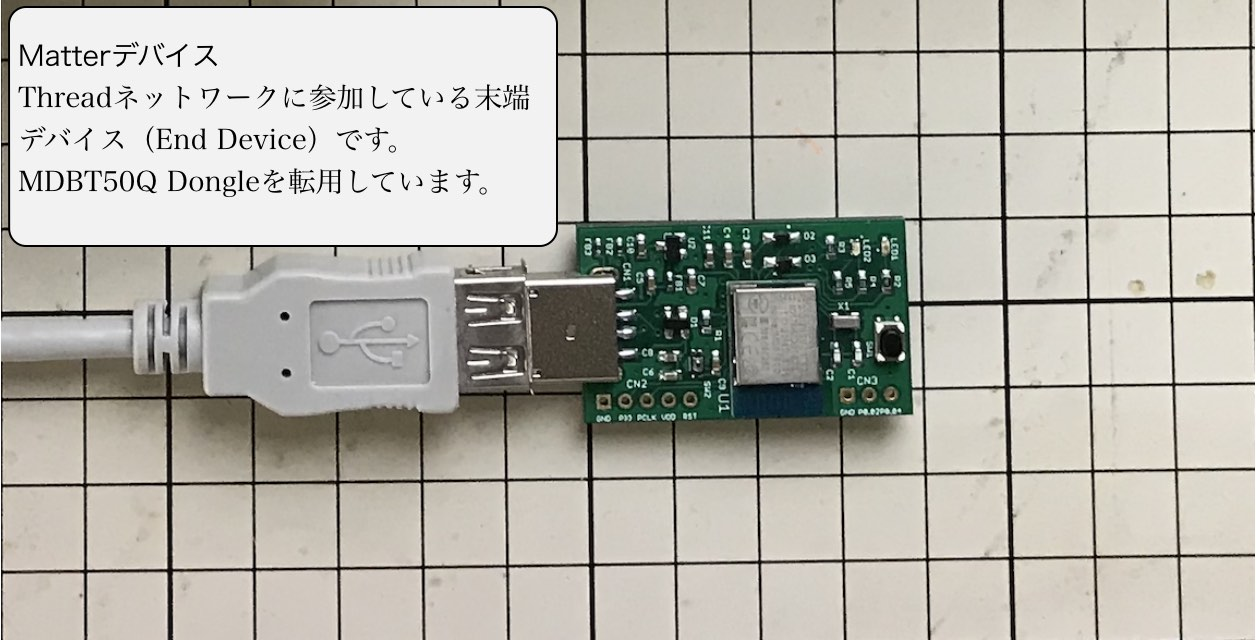
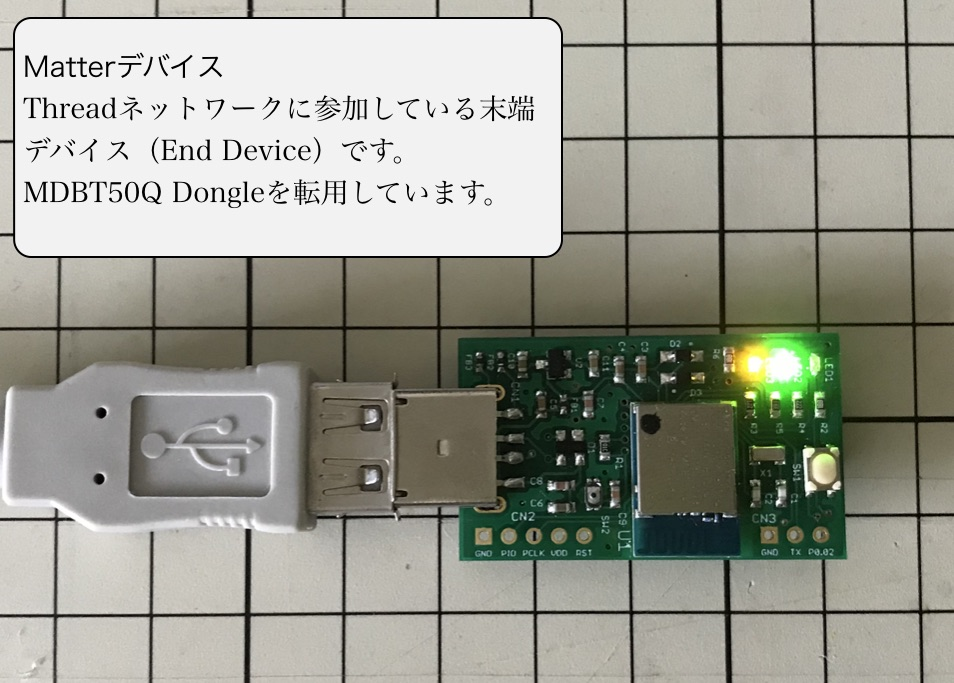
ドキュメントを作成
・ファームウェア導入手順書を追加

diff --git a/MatterPoCKit/INSTALLFW.md b/MatterPoCKit/INSTALLFW.md
@@ -1,0 +1,268 @@
+# Matterデバイスアプリ導入手順
+
+## 概要
+Matterデバイスアプリ（ファームウェア）をnRF52840環境にインストールする手順について掲載しています。
+
+以下の順番で作業を進めます。
+- ファームウェアのビルド
+- ファームウェアの書込み
+- 動作確認
+
+#### 使用した機材
+
+- macOSが導入されたPC<br>
+OSのバージョンは10.15.5（Catalina）です。
+
+- [MDBT50Q Dongle（rev2）](../FIDO2Device/MDBT50Q_Dongle/pcb_rev2/README.md)<br>
+nRF52840を搭載した基板です。<br>
+本件検証のために転用しています。
+
+- [nRF52840 DK](https://www.nordicsemi.com/Products/Development-hardware/nrf52840-dk)<br>
+ファームウェアを書き込むために使用します。<br>
+（国内技適が無いため、動作確認環境としては利用できません）
+
+## ファームウェアのビルド
+
+ファームウェアのソースコードをビルドし、ファームウェアを生成します。<br>
+
+#### nRF Connect SDK環境の作成
+
+ビルド実行のために必要となるツール「[nRF Connect SDK](https://www.nordicsemi.com/Products/Development-software/nrf-connect-sdk)」を、macOS環境にインストールします。 <br>
+
+詳細につきましては、以下の手順書をご参照願います。
+
+- <b>[ARM GCCインストール手順](../nRF52840_app/ARMGCCINST.md)</b>
+
+- <b>[NetBeansインストール手順](../nRF52840_app/NETBEANSINST.md)</b>
+
+- <b>[nRF Connect SDKインストール手順書](../nRF5340_app/INSTALLSDK.md)</b>
+
+#### ビルドを実行
+
+まずは、ソースコードをGitHubリポジトリーからチェックアウトします。<br>
+（以下本ドキュメントでは、`${HOME}/GitHub/onecard-fido/`にチェックアウトされたと想定しています）
+
+次に、ファームウェアのソースコードディレクトリー`onecard-fido/MatterPoCKit/nrfconnect/`に移動し、ビルド用シェルを実行します。
+
+```
+cd ${HOME}/GitHub/onecard-fido/MatterPoCKit/nrfconnect/
+./westbuild.sh
+```
+
+以下は実行例になります。
+
+```
+bash-3.2$ cd ${HOME}/GitHub/onecard-fido/MatterPoCKit/nrfconnect/
+bash-3.2$ ./westbuild.sh
+-- west build: generating a build system
+Including boilerplate (Zephyr base): /Users/makmorit/GitHub/onecard-fido/pyvenvs/ncs/zephyr/cmake/app/boilerplate.cmake
+-- Application: /Users/makmorit/GitHub/onecard-fido/MatterPoCKit/nrfconnect
+-- Zephyr version: 2.6.0-rc1 (/Users/makmorit/GitHub/onecard-fido/pyvenvs/ncs/zephyr), build: v2.6.0-rc1-ncs1-3-g0944459b5b62
+-- Found Python3: /Users/makmorit/GitHub/onecard-fido/pyvenvs/ncs/bin/python3 (found suitable exact version "3.7.3") found components: Interpreter
+-- Found west (found suitable version "0.10.1", minimum required is "0.7.1")
+-- Board: nrf52840dk_nrf52840
+-- Cache files will be written to: /Users/makmorit/Library/Caches/zephyr
+-- Found toolchain: gnuarmemb (/Users/makmorit/opt/gcc-arm-none-eabi-9-2020-q2-update)
+-- Found BOARD.dts: /Users/makmorit/GitHub/onecard-fido/pyvenvs/ncs/zephyr/boards/arm/nrf52840dk_nrf52840/nrf52840dk_nrf52840.dts
+-- Found devicetree overlay: configuration/nrf52840dk_nrf52840/MDBT50Q_dongle_rev2.overlay
+-- Generated zephyr.dts: /Users/makmorit/GitHub/onecard-fido/MatterPoCKit/nrfconnect/build/zephyr/zephyr.dts
+：
+-- Generating done
+-- Build files have been written to: /Users/makmorit/GitHub/onecard-fido/MatterPoCKit/nrfconnect/build
+-- west build: building application
+[0/655] cd /Users/makmorit/GitHub/connectedhomeip && /User...tup/nrfconnect/update_ncs.py --check --quiet || ( exit 0 )
+[1/655] Preparing syscall dependency handling
+
+[56/655] cd /Users/makmorit/GitHub/onecard-fido/MatterPoCK...o/pyvenvs/ncs/modules/lib/openthread/etc/cmake/print.cmake
+OPENTHREAD_CONFIG_ASSERT_ENABLE=1
+OPENTHREAD_CONFIG_BACKBONE_ROUTER_DUA_NDPROXYING_ENABLE=0
+OPENTHREAD_CONFIG_BACKBONE_ROUTER_MULTICAST_ROUTING_ENABLE=0
+OPENTHREAD_CONFIG_ENABLE_BUILTIN_MBEDTLS=0
+OPENTHREAD_CONFIG_ENABLE_BUILTIN_MBEDTLS_MANAGEMENT=0
+OPENTHREAD_CONFIG_DHCP6_CLIENT_ENABLE=1
+OPENTHREAD_CONFIG_DNS_CLIENT_ENABLE=1
+OPENTHREAD_CONFIG_ECDSA_ENABLE=1
+OPENTHREAD_CONFIG_SRP_CLIENT_ENABLE=1
+OPENTHREAD_CONFIG_DUA_ENABLE=1
+OPENTHREAD_CONFIG_MLR_ENABLE=1
+OPENTHREAD_CONFIG_TMF_NETWORK_DIAG_MTD_ENABLE=1
+OPENTHREAD_CONFIG_TMF_NETDATA_SERVICE_ENABLE=1
+OPENTHREAD_CONFIG_IP6_SLAAC_ENABLE=1
+OPENTHREAD_CONFIG_SNTP_CLIENT_ENABLE=1
+OPENTHREAD_SPINEL_CONFIG_RCP_RESTORATION_MAX_COUNT=0
+PACKAGE_NAME=OPENTHREAD
+PACKAGE_VERSION=eae63bb47
+OPENTHREAD_CONFIG_THREAD_VERSION=OT_THREAD_VERSION_1_2
+OPENTHREAD_CONFIG_NCP_HDLC_ENABLE=1
+KERNEL
+__ZEPHYR__=1
+_FORTIFY_SOURCE=2
+BUILD_VERSION=v2.6.0-rc1-ncs1-3-g0944459b5b62
+__LINUX_ERRNO_EXTENSIONS__
+USE_PARTITION_MANAGER=0
+__PROGRAM_START
+NRF52840_XXAA
+NRF_802154_ENCRYPTION_ENABLED=0
+NRF_802154_SECURITY_WRITER_ENABLED=0
+NRF_802154_IE_WRITER_ENABLED=0
+NRF_802154_USE_RAW_API=1
+NRF_802154_PENDING_SHORT_ADDRESSES=16
+NRF_802154_PENDING_EXTENDED_ADDRESSES=16
+NRF_802154_RX_BUFFERS=16
+NRF_802154_CCA_CORR_LIMIT_DEFAULT=2
+NRF_802154_CCA_CORR_THRESHOLD_DEFAULT=45
+NRF_802154_CCA_ED_THRESHOLD_DEFAULT=45
+NRF_802154_CSMA_CA_ENABLED=1
+NRF_802154_TX_STARTED_NOTIFY_ENABLED=1
+NRF_802154_ACK_TIMEOUT_ENABLED=1
+NRF_802154_CCA_MODE_DEFAULT=NRF_RADIO_CCA_MODE_ED
+NRF_802154_INTERNAL_RADIO_IRQ_HANDLING=0
+PSA_CRYPTO_SECURE
+MBEDTLS_CONFIG_FILE=nrf-config.h
+[590/655] No configure step for 'chip-gn'
+[591/655] Performing build step for 'chip-gn'
+Generating compile_commands took 7ms
+Done. Made 65 targets from 71 files in 28ms
+[263/263] stamp obj/ABS_PATH/Users/makmorit/GitHub/connectedhomeip/config/nrfconnect/chip-gn/default.stamp
+[648/655] Linking CXX executable zephyr/zephyr_prebuilt.elf
+
+[655/655] Linking CXX executable zephyr/zephyr.elf
+Memory region         Used Size  Region Size  %age Used
+           FLASH:      645484 B         1 MB     61.56%
+            SRAM:      186241 B       256 KB     71.05%
+        IDT_LIST:          0 GB         2 KB      0.00%
+bash-3.2$
+```
+
+以上でビルド実行は完了になります。
+
+## ファームウェアの書込み
+
+ビルド実行の結果、生成されたファームウェアを、MDBT50Q Dongleに書込みます。<br>
+
+#### ファームウェア書込み準備
+
+まず最初に、MDBT50Q Dongleの背面にあるボタン電池ケースに、<b>電池が入っていないこと</b>を必ず確認します。
+
+<img src="../nRF52840_app/firmwares/assets03/0000.jpg" width="400">
+
+次に、MDBT50Q DongleをPCのUSBポートに装着後、nRF52840 DKと接続します。<br>
+接続するピンの対応関係は以下の通りです。
+
+|ピンの名前 |MDBT50Q Dongle（rev2）| | nRF52840 DK|
+|:--|:-:|:-:|:-:|
+|0V |GND  | <-->  |GND|
+|SWD IO |PIO  | <-->  |SWDIO|
+|SWD Clock |PCLK  | <--  |SWDCLK|
+|SWD IO Level |VDD  | -->  |VTG|
+|SWD Reset |RST  | <--  |RESET|
+
+|ピンの名前 |MDBT50Q Dongle（rev2.1.2）| | nRF52840 DK|
+|:--|:-:|:-:|:-:|
+|0V |GND  | <-->  |GND|
+|SWD IO Level |VDD  | -->  |VTG|
+|SWD IO |PIO  | <-->  |SWDIO|
+|SWD Clock |PCLK  | <--  |SWDCLK|
+
+[注1] nRF52840 DK上の「P20」というコネクター（オスピン）に接続します。<br>
+[注2] MDBT50Q Dongle（rev2, PCA10059_01）の回路図はこちら（[FIDO2AUTH_002.pdf](../FIDO2Device/MDBT50Q_Dongle/pcb_rev2/FIDO2AUTH_002.pdf)）になります。<br>
+[注3] MDBT50Q Dongle（rev2.1.2, PCA10059_02）の回路図はこちら（[FIDO2AUTH_00212.pdf](../FIDO2Device/MDBT50Q_Dongle/pcb_rev2_1_2/FIDO2AUTH_00212.pdf)）になります。
+
+下図は実際に両者を接続した時のイメージになります。
+
+<img src="../nRF52840_app/firmwares/assets03/0001.jpg" width="540">
+
+#### ファームウェア書込みの実行
+
+次に、ファームウェアのソースコードディレクトリー`onecard-fido/MatterPoCKit/nrfconnect/`に移動し、ビルド用シェルを実行します。
+
+```
+cd ${HOME}/GitHub/onecard-fido/MatterPoCKit/nrfconnect/
+./westbuild.sh -f
+```
+
+以下は実行例になります。
+
+```
+bash-3.2$ cd ${HOME}/GitHub/onecard-fido/MatterPoCKit/nrfconnect/
+bash-3.2$ ./westbuild.sh -f
+ZEPHYR_BASE=/Users/makmorit/GitHub/onecard-fido/pyvenvs/ncs/zephyr (origin: env)
+-- west flash: rebuilding
+cmake version 3.20.2 is OK; minimum version is 3.13.1
+Running CMake: /usr/local/bin/cmake --build build
+[0/5] cd /Users/makmorit/GitHub/connectedhomeip && /Users/...tup/nrfconnect/update_ncs.py --check --quiet || ( exit 0 )
+[1/5] Performing build step for 'chip-gn'
+Generating compile_commands took 6ms
+Done. Made 65 targets from 71 files in 27ms
+ninja: no work to do.
+[3/3] cd /Users/makmorit/GitHub/onecard-fido/MatterPoCKit/...o/pyvenvs/ncs/modules/lib/openthread/etc/cmake/print.cmake
+OPENTHREAD_CONFIG_ASSERT_ENABLE=1
+OPENTHREAD_CONFIG_BACKBONE_ROUTER_DUA_NDPROXYING_ENABLE=0
+OPENTHREAD_CONFIG_BACKBONE_ROUTER_MULTICAST_ROUTING_ENABLE=0
+：
+NRF_802154_CCA_MODE_DEFAULT=NRF_RADIO_CCA_MODE_ED
+NRF_802154_INTERNAL_RADIO_IRQ_HANDLING=0
+PSA_CRYPTO_SECURE
+MBEDTLS_CONFIG_FILE=nrf-config.h
+-- west flash: using runner nrfjprog
+runners.nrfjprog: nrfjprog --ids
+Using board 683272599
+-- runners.nrfjprog: Flashing file: build/zephyr/zephyr.hex
+runners.nrfjprog: nrfjprog --program build/zephyr/zephyr.hex --sectoranduicrerase -f NRF52 --snr 683272599
+Parsing hex file.
+Erasing page at address 0x0.
+Erasing page at address 0x1000.
+Erasing page at address 0x2000.
+Erasing page at address 0x3000.
+：
+Erasing page at address 0x9A000.
+Erasing page at address 0x9B000.
+Erasing page at address 0x9C000.
+Erasing page at address 0x9D000.
+Applying system reset.
+Checking that the area to write is not protected.
+Programming device.
+runners.nrfjprog: nrfjprog --pinresetenable -f NRF52 --snr 683272599
+Enabling pin reset.
+runners.nrfjprog: nrfjprog --pinreset -f NRF52 --snr 683272599
+Applying pin reset.
+-- runners.nrfjprog: Board with serial number 683272599 flashed successfully.
+bash-3.2$
+```
+
+シェルの実行が完了したら、MDBT50Q DongleをPCのUSBポートから外し、nRF52840 DKとの配線を外してください。
+
+これで、ファームウェアの書込みは完了となります。
+
+## 動作確認
+
+ファームウェアが書き込まれたMDBT50Q Dongleについて、基本的な動作確認を行います。
+
+#### LED点滅を確認
+
+MDBT50Q DongleをPCのUSBポートに再度装着します。<br>
+ほどなく、MDBT50Q Dongleの基板上のLEDが、点灯・点滅を開始することを確認します。
+
+<img src="assets01/0005.jpg" width="320">
+
+点灯・点滅のパターンは以下の通りになります。
+
+```
+緑色LEDは常時点滅
+橙色LEDが50ms点灯
+橙色LEDが950ms消灯
+橙色LEDが50ms点灯
+橙色LEDが950ms消灯
+：
+```
+
+#### USB接続を確認
+
+このMatterデバイスアプリは、USB HIDインターフェースが用意されています。<br>
+USBデバイスとして認識されているかどうかは、macOSの「システム情報」アプリで確認できます。
+
+下図のように「Matter device」として認識されていればOKです。
+
+<img src="assets01/0004.jpg" width="480">
+
+以上で、Matterデバイスアプリの導入は完了となります。

diff --git a/MatterPoCKit/INSTALLPRG.md b/MatterPoCKit/INSTALLPRG.md
@@ -1,0 +1,106 @@
+# Matterコントローラーアプリ導入手順
+
+## 概要
+MatterコントローラーアプリをAndroid環境にインストールする手順について掲載しています。
+
+以下の順番で作業を進めます。
+- アプリのダウンロードと事前設定
+- インストールの実行
+- ドングルとのペアリング
+
+## アプリのダウンロードと事前設定
+
+[Android版 Matterコントローラーアプリ](../executable/app-release.apk)を、GitHubからダウンロードします。<br>
+該当ページの「Download」ボタンをタップすると、[app-release.apk](executable/app-release.apk)がダウンロードできます。
+
+<img src="assets01/0002.jpg" width="200">
+
+ダウンロード中に下図のようなメッセージが表示されたら「OK」をタップしてください。<br>
+（Google Playを経由しないアプリのダウンロードであるため、このようなメッセージが表示されてしまいます。何卒ご容赦ください）
+
+<img src="assets01/0003.jpg" width="200">
+
+ダウンロードが完了したら「開く」をタップしてください。
+
+<img src="assets01/0004.jpg" width="200">
+
+下図のような画面に遷移したら「設定」をタップします。
+
+<img src="assets01/0005.jpg" width="200">
+
+設定画面に遷移したら、下図のように、右側のトグルをOnに設定します。
+
+<img src="assets01/0006.jpg" width="200">
+
+以上で、アプリのダウンロードと事前設定は完了です。
+
+## インストールの実行
+
+ダウンロードしたファイルを開きます。<br>
+本例では例として、ダウンロードというアプリを開きます。
+
+ダウンロードされたアプリがアイコンで一覧表示されますので、先ほどダウンロードした「app-release.apk」をタップします。
+
+<img src="assets01/0007.jpg" width="200">
+
+
+下図のような確認画面に遷移したら「インストール」をタップし、インストールを続行します。
+
+<img src="assets01/0008.jpg" width="200">
+
+インストール完了画面に遷移したら「開く」をタップし、アプリを起動させます。
+
+<img src="assets01/0009.jpg" width="200">
+
+下図のような確認メッセージが表示されたら、必ず「許可」を選択してください。<br>
+（「許可しない」を選択すると、Bluetoothを使用することができず、結果としてBLE近接認証機能が実行できません。）
+
+<img src="assets01/0010.jpg" width="200">
+
+下図のようにBLE近接認証アプリが起動します。
+
+<img src="assets01/0011.jpg" width="200">
+
+以上でインストールは完了になります。
+
+## ドングルとのペアリング
+
+アプリのインストールが完了したら、MDBT50Q DongleとAndroidとの間で、Bluetoothペアリングを実行します。
+
+#### ペアリングモードに遷移
+
+Bluetoothペアリングを実行するためには、事前に、MDBT50Q Dongleをペアリングモードに遷移させる必要があります。
+
+ペアリング対象となるMDBT50Q Dongleを、PC等のUSBポートに装着し、電源が入った状態にします。<br>
+この状態で、基板上のボタンを３秒間ほど長押しします。
+
+<img src="assets01/0012.jpg" width="300">
+
+下図のように、橙色のLEDが点灯します。<br>
+これで、MDBT50Q Dongleがペアリングモードに遷移しました。
+
+<img src="assets01/0013.jpg" width="300">
+
+
+#### ペアリングの実行
+
+アプリ画面の「ペアリング実行」をタップします。
+
+<img src="assets01/0011.jpg" width="200">
+
+ペアリング処理が開始されます。
+
+<img src="assets01/0014.jpg" width="200">
+
+ペアリング処理が完了すると、画面下部に「ペアリングが成功しました。」というメッセージが表示されます。
+
+<img src="assets01/0015.jpg" width="200">
+
+ペアリング対象となるMDBT50Q Dongleの方では、ペアリング完了後、１０秒以内に自動的にペアリングモードが解除されます。<br>
+ペアリングモードが解除されると、基板上の緑色のLEDが点滅します。
+
+<img src="assets01/0012.jpg" width="300">
+
+以上で、ペアリングの実行は完了となります。
+
+これで、MDBT50Q Dongleが<b>[BLE近接認証機能](../../../FIDO2Device/MDBT50Q_Dongle/BLEDAUTH.md)</b>用のBLEデバイスとして利用することができます。
